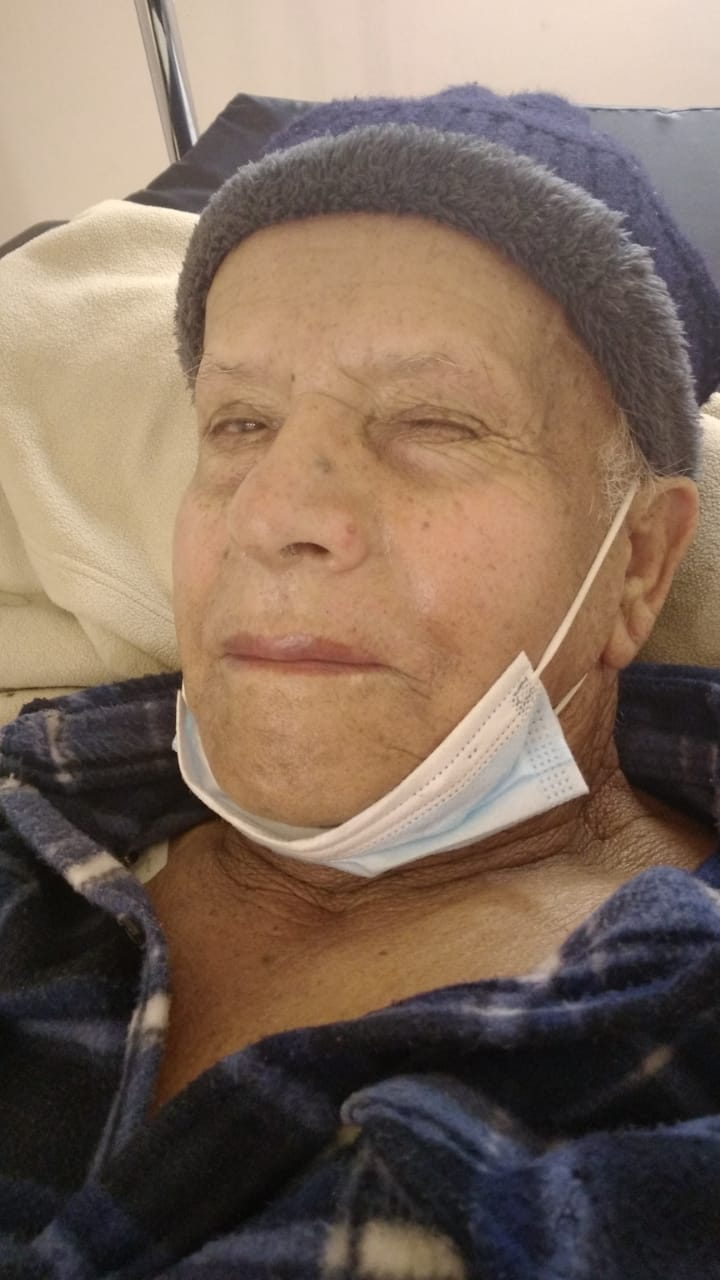
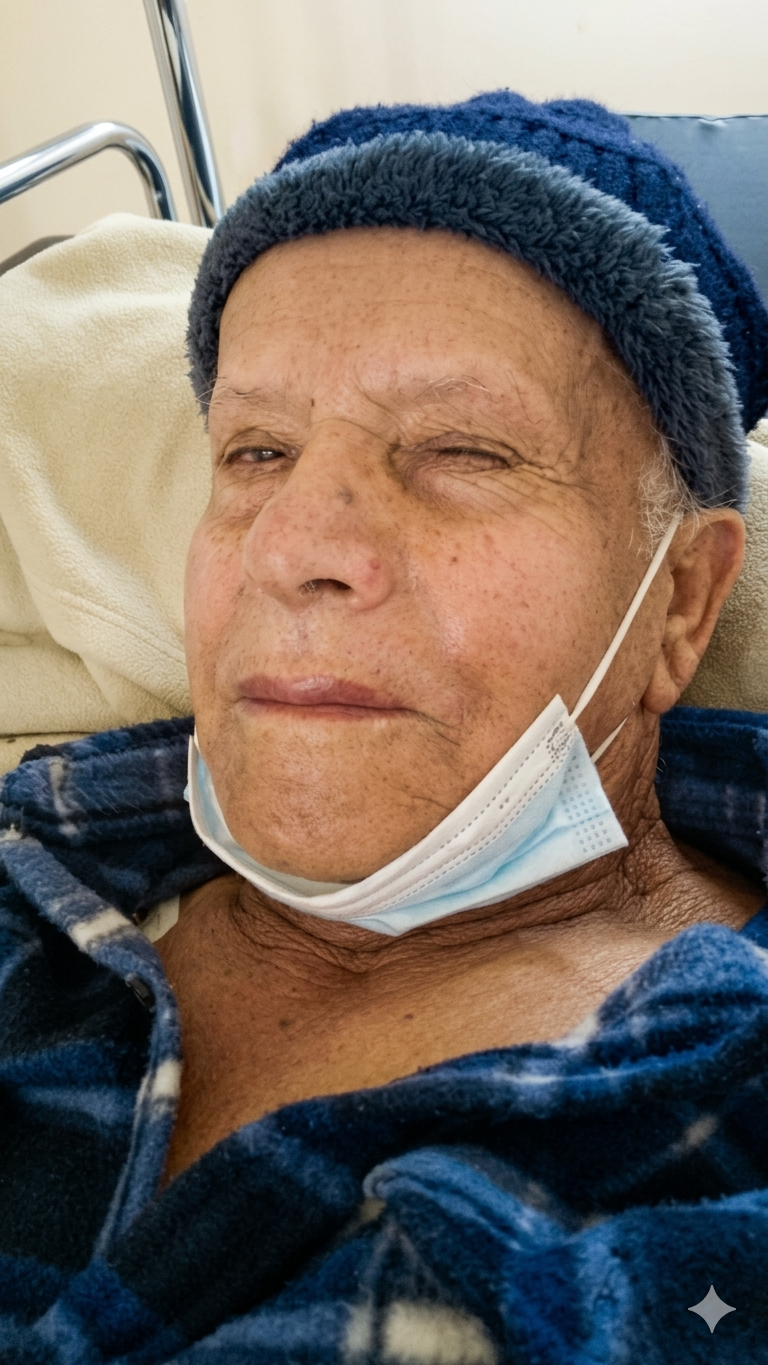
s

diff --git a/components/image-viewer.tsx b/components/image-viewer.tsx
@@ -2,7 +2,7 @@
 
 import { useEffect, useCallback, useState, useRef } from "react"
 import Image from "next/image"
-import { X, ChevronLeft, ChevronRight } from "lucide-react"
+import { X, ChevronLeft, ChevronRight, Download, Play, Pause } from "lucide-react"
 import type { Photo } from "@/lib/gallery-data"
 
 interface ImageViewerProps {
@@ -14,6 +14,11 @@ interface ImageViewerProps {
   onJumpTo?: (index: number) => void
 }
 
+// Total time each slide is shown (ms)
+const SLIDESHOW_DURATION = 5_000
+// Duration of the cross-fade overlap (ms) — must be < SLIDESHOW_DURATION
+const FADE_DURATION = 1_500
+
 export default function ImageViewer({
   photos,
   currentIndex,
@@ -22,48 +27,138 @@ export default function ImageViewer({
   onNext,
   onJumpTo,
 }: ImageViewerProps) {
-  const photo = photos[currentIndex]
   const total = photos.length
-  const [direction, setDirection] = useState<"left" | "right" | null>(null)
-  const [animKey, setAnimKey] = useState(0)
-  const thumbsRef = useRef<HTMLDivElement>(null)
 
-  // Keep active thumbnail visible
+  // ─────────────────────────────────────────────
+  // Cross-fade: two fixed layers (A / B).
+  // We swap which layer is "on top" on each navigation.
+  // ─────────────────────────────────────────────
+  // layerA / layerB hold the photo index each layer is showing
+  const [layerA, setLayerA] = useState(currentIndex)
+  const [layerB, setLayerB] = useState(currentIndex)
+  // which layer is currently on top (fully opaque)
+  const [topLayer, setTopLayer] = useState<"A" | "B">("A")
+  // whether we are mid-transition
+  const [transitioning, setTransitioning] = useState(false)
+  const fadeTimerRef = useRef<ReturnType<typeof setTimeout> | null>(null)
+  const prevIndexRef = useRef(currentIndex)
+
+  // When currentIndex changes, start a cross-fade
   useEffect(() => {
-    const container = thumbsRef.current
-    if (!container) return
-    const active = container.children[currentIndex] as HTMLElement | undefined
-    active?.scrollIntoView({ behavior: "smooth", block: "nearest", inline: "center" })
+    if (prevIndexRef.current === currentIndex) return
+    prevIndexRef.current = currentIndex
+
+    // Cancel any in-flight fade
+    if (fadeTimerRef.current) clearTimeout(fadeTimerRef.current)
+
+    // Load the new image into the BOTTOM layer, then bring it to the top
+    if (topLayer === "A") {
+      // A is on top → load new image into B, then fade A out / B in
+      setLayerB(currentIndex)
+      // Small delay so the browser paints B before we start fading
+      requestAnimationFrame(() => {
+        requestAnimationFrame(() => {
+          setTransitioning(true)
+          setTopLayer("B")
+          fadeTimerRef.current = setTimeout(() => setTransitioning(false), FADE_DURATION)
+        })
+      })
+    } else {
+      // B is on top → load new image into A, then fade B out / A in
+      setLayerA(currentIndex)
+      requestAnimationFrame(() => {
+        requestAnimationFrame(() => {
+          setTransitioning(true)
+          setTopLayer("A")
+          fadeTimerRef.current = setTimeout(() => setTransitioning(false), FADE_DURATION)
+        })
+      })
+    }
+
+    return () => {
+      if (fadeTimerRef.current) clearTimeout(fadeTimerRef.current)
+    }
+  // eslint-disable-next-line react-hooks/exhaustive-deps
   }, [currentIndex])
 
-  const goNext = useCallback(() => {
-    setDirection("left")
-    setAnimKey((k) => k + 1)
-    onNext()
-  }, [onNext])
+  // ─────────────────────────────────────────────
+  // Slideshow
+  // ─────────────────────────────────────────────
+  const [isSlideshow, setIsSlideshow] = useState(false)
+  const [progressKey, setProgressKey] = useState(0)
+  const slideshowRef = useRef<ReturnType<typeof setTimeout> | null>(null)
 
-  const goPrev = useCallback(() => {
-    setDirection("right")
-    setAnimKey((k) => k + 1)
-    onPrev()
-  }, [onPrev])
+  const stopSlideshow = useCallback(() => {
+    if (slideshowRef.current) clearTimeout(slideshowRef.current)
+    slideshowRef.current = null
+    setIsSlideshow(false)
+  }, [])
 
-  const jumpTo = useCallback(
-    (i: number) => {
-      setDirection(i > currentIndex ? "left" : "right")
-      setAnimKey((k) => k + 1)
-      onJumpTo?.(i)
-    },
-    [currentIndex, onJumpTo],
-  )
+  // Schedule the next auto-advance
+  const currentIndexRef = useRef(currentIndex)
+  currentIndexRef.current = currentIndex
 
+  useEffect(() => {
+    if (!isSlideshow) return
+    setProgressKey((k) => k + 1)
+
+    slideshowRef.current = setTimeout(() => {
+      const idx = currentIndexRef.current
+      if (idx >= total - 1) {
+        stopSlideshow()
+      } else {
+        onNext()
+      }
+    }, SLIDESHOW_DURATION)
+
+    return () => {
+      if (slideshowRef.current) clearTimeout(slideshowRef.current)
+    }
+  // Re-run each time a new slide is shown
+  // eslint-disable-next-line react-hooks/exhaustive-deps
+  }, [isSlideshow, currentIndex])
+
+  const toggleSlideshow = useCallback(() => {
+    if (isSlideshow) {
+      stopSlideshow()
+    } else {
+      if (currentIndex === total - 1) onJumpTo?.(0)
+      setIsSlideshow(true)
+    }
+  }, [isSlideshow, stopSlideshow, currentIndex, total, onJumpTo])
+
+  // ─────────────────────────────────────────────
+  // Download
+  // ─────────────────────────────────────────────
+  const handleDownload = useCallback(async () => {
+    const src = photos[currentIndex].src
+    try {
+      const response = await fetch(src)
+      const blob = await response.blob()
+      const url = URL.createObjectURL(blob)
+      const a = document.createElement("a")
+      a.href = url
+      a.download = src.split("/").pop() || `foto-${currentIndex + 1}.jpg`
+      document.body.appendChild(a)
+      a.click()
+      document.body.removeChild(a)
+      URL.revokeObjectURL(url)
+    } catch {
+      window.open(src, "_blank")
+    }
+  }, [photos, currentIndex])
+
+  // ─────────────────────────────────────────────
+  // Keyboard
+  // ─────────────────────────────────────────────
   const handleKeyDown = useCallback(
     (e: KeyboardEvent) => {
-      if (e.key === "Escape") onClose()
-      if (e.key === "ArrowLeft") goPrev()
-      if (e.key === "ArrowRight") goNext()
+      if (e.key === "Escape")     { stopSlideshow(); onClose() }
+      if (e.key === "ArrowLeft")  { stopSlideshow(); onPrev() }
+      if (e.key === "ArrowRight") { stopSlideshow(); onNext() }
+      if (e.key === " ")          { e.preventDefault(); toggleSlideshow() }
     },
-    [onClose, goPrev, goNext],
+    [onClose, onPrev, onNext, toggleSlideshow, stopSlideshow],
   )
 
   useEffect(() => {
@@ -75,7 +170,25 @@ export default function ImageViewer({
     }
   }, [handleKeyDown])
 
-  const slideClass = direction === "left" ? "slide-left" : direction === "right" ? "slide-right" : "viewer-enter"
+  // Thumbnail strip scroll
+  const thumbsRef = useRef<HTMLDivElement>(null)
+  useEffect(() => {
+    const container = thumbsRef.current
+    if (!container) return
+    const active = container.children[currentIndex] as HTMLElement | undefined
+    active?.scrollIntoView({ behavior: "smooth", block: "nearest", inline: "center" })
+  }, [currentIndex])
+
+  // Cleanup
+  useEffect(() => {
+    return () => {
+      if (slideshowRef.current) clearTimeout(slideshowRef.current)
+      if (fadeTimerRef.current)  clearTimeout(fadeTimerRef.current)
+    }
+  }, [])
+
+  // Caption for the currently visible photo
+  const caption = photos[currentIndex].caption ?? photos[currentIndex].alt
 
   return (
     <div
@@ -84,33 +197,65 @@ export default function ImageViewer({
       aria-modal="true"
       aria-label="Visor de imagen"
     >
+      {/* ── Slideshow progress bar ── */}
+      {isSlideshow && (
+        <div className="absolute top-0 left-0 right-0 z-20 h-0.5 bg-white/10">
+          <div
+            key={progressKey}
+            className="slideshow-progress h-full origin-left bg-primary"
+            style={{ animationDuration: `${SLIDESHOW_DURATION}ms` }}
+          />
+        </div>
+      )}
+
       {/* ── Top bar ── */}
       <div className="flex shrink-0 items-center justify-between px-5 py-4">
-        {/* Counter */}
         <span className="font-mono text-sm tabular-nums text-white/40">
           {String(currentIndex + 1).padStart(2, "0")} / {String(total).padStart(2, "0")}
         </span>
 
-        {/* Caption (center) */}
-        <p className="max-w-xs truncate text-center text-sm text-white/60">
-          {photo.caption ?? photo.alt}
-        </p>
+        <div className="flex items-center gap-2">
+          {/* Slideshow toggle */}
+          <button
+            onClick={toggleSlideshow}
+            aria-label={isSlideshow ? "Detener presentación" : "Iniciar presentación"}
+            title={isSlideshow ? "Detener presentación (Espacio)" : "Iniciar presentación (Espacio)"}
+            className={`flex h-9 w-9 items-center justify-center rounded-full transition ${
+              isSlideshow
+                ? "bg-primary text-primary-foreground hover:bg-primary/80"
+                : "bg-white/10 text-white hover:bg-white/20"
+            }`}
+          >
+            {isSlideshow ? <Pause className="h-4 w-4" /> : <Play className="h-4 w-4" />}
+          </button>
 
-        {/* Close */}
-        <button
-          onClick={onClose}
-          aria-label="Cerrar visor"
-          className="flex h-9 w-9 items-center justify-center rounded-full bg-white/10 text-white transition hover:bg-white/20"
-        >
-          <X className="h-4 w-4" />
-        </button>
+          {/* Download */}
+          <button
+            onClick={handleDownload}
+            aria-label="Descargar imagen"
+            title="Descargar imagen"
+            className="flex h-9 w-9 items-center justify-center rounded-full bg-white/10 text-white transition hover:bg-white/20"
+          >
+            <Download className="h-4 w-4" />
+          </button>
+
+          {/* Close */}
+          <button
+            onClick={() => { stopSlideshow(); onClose() }}
+            aria-label="Cerrar visor"
+            className="flex h-9 w-9 items-center justify-center rounded-full bg-white/10 text-white transition hover:bg-white/20"
+          >
+            <X className="h-4 w-4" />
+          </button>
+        </div>
       </div>
 
       {/* ── Main image area ── */}
       <div className="relative flex flex-1 items-center justify-center overflow-hidden">
+
         {/* Prev button */}
         <button
-          onClick={goPrev}
+          onClick={() => { stopSlideshow(); onPrev() }}
           aria-label="Imagen anterior"
           disabled={currentIndex === 0}
           className="absolute left-4 z-10 flex h-12 w-12 items-center justify-center rounded-full border border-white/10 bg-black/60 text-white backdrop-blur-sm transition hover:border-white/30 hover:bg-black/80 disabled:pointer-events-none disabled:opacity-20"
@@ -118,30 +263,79 @@ export default function ImageViewer({
           <ChevronLeft className="h-6 w-6" />
         </button>
 
-        {/* Image */}
-        <div
-          key={animKey}
-          className={`relative flex max-h-full max-w-full items-center justify-center px-20 py-4 ${slideClass}`}
-        >
+        {/* ── Cross-fade stack: two permanent layers ── */}
+        <div className="relative flex h-full w-full items-center justify-center px-20 py-4">
+
+          {/* Layer A */}
+          <div
+            className="absolute inset-0 flex items-center justify-center px-20 py-4"
+            style={{
+              opacity: topLayer === "A" ? 1 : 0,
+              transition: `opacity ${FADE_DURATION}ms ease-in-out`,
+              zIndex: topLayer === "A" ? 2 : 1,
+            }}
+          >
+            <Image
+              src={photos[layerA].src}
+              alt={photos[layerA].alt}
+              width={1400}
+              height={1050}
+              className="max-h-[calc(100vh-14rem)] w-auto max-w-full rounded-xl object-contain shadow-2xl"
+              priority
+            />
+          </div>
+
+          {/* Layer B */}
+          <div
+            className="absolute inset-0 flex items-center justify-center px-20 py-4"
+            style={{
+              opacity: topLayer === "B" ? 1 : 0,
+              transition: `opacity ${FADE_DURATION}ms ease-in-out`,
+              zIndex: topLayer === "B" ? 2 : 1,
+            }}
+          >
+            <Image
+              src={photos[layerB].src}
+              alt={photos[layerB].alt}
+              width={1400}
+              height={1050}
+              className="max-h-[calc(100vh-14rem)] w-auto max-w-full rounded-xl object-contain shadow-2xl"
+              priority
+            />
+          </div>
+
+          {/* Invisible spacer to keep container height stable */}
           <Image
-            src={photo.src}
-            alt={photo.alt}
+            src={photos[currentIndex].src}
+            alt=""
+            aria-hidden="true"
             width={1400}
             height={1050}
-            className="max-h-[calc(100vh-13rem)] w-auto max-w-full rounded-xl object-contain shadow-2xl"
-            priority
+            className="invisible max-h-[calc(100vh-14rem)] w-auto max-w-full rounded-xl object-contain"
           />
         </div>
 
         {/* Next button */}
         <button
-          onClick={goNext}
+          onClick={() => { stopSlideshow(); onNext() }}
           aria-label="Imagen siguiente"
           disabled={currentIndex === total - 1}
           className="absolute right-4 z-10 flex h-12 w-12 items-center justify-center rounded-full border border-white/10 bg-black/60 text-white backdrop-blur-sm transition hover:border-white/30 hover:bg-black/80 disabled:pointer-events-none disabled:opacity-20"
         >
           <ChevronRight className="h-6 w-6" />
         </button>
+
+        {/* ── Caption overlay (bottom of image area) ── */}
+        {caption && (
+          <div
+            className="pointer-events-none absolute bottom-6 left-1/2 z-10 w-full max-w-2xl -translate-x-1/2 px-6"
+            style={{ zIndex: 10 }}
+          >
+            <div className="rounded-xl bg-black/60 px-5 py-3 text-center text-sm leading-relaxed text-white backdrop-blur-sm">
+              {caption}
+            </div>
+          </div>
+        )}
       </div>
 
       {/* ── Thumbnail strip ── */}
@@ -153,7 +347,7 @@ export default function ImageViewer({
           {photos.map((p, i) => (
             <button
               key={p.src}
-              onClick={() => jumpTo(i)}
+              onClick={() => { stopSlideshow(); onJumpTo?.(i) }}
               aria-label={`Ir a imagen ${i + 1}`}
               className={`relative h-14 w-14 flex-shrink-0 overflow-hidden rounded-lg border-2 transition-all duration-200 ${
                 i === currentIndex